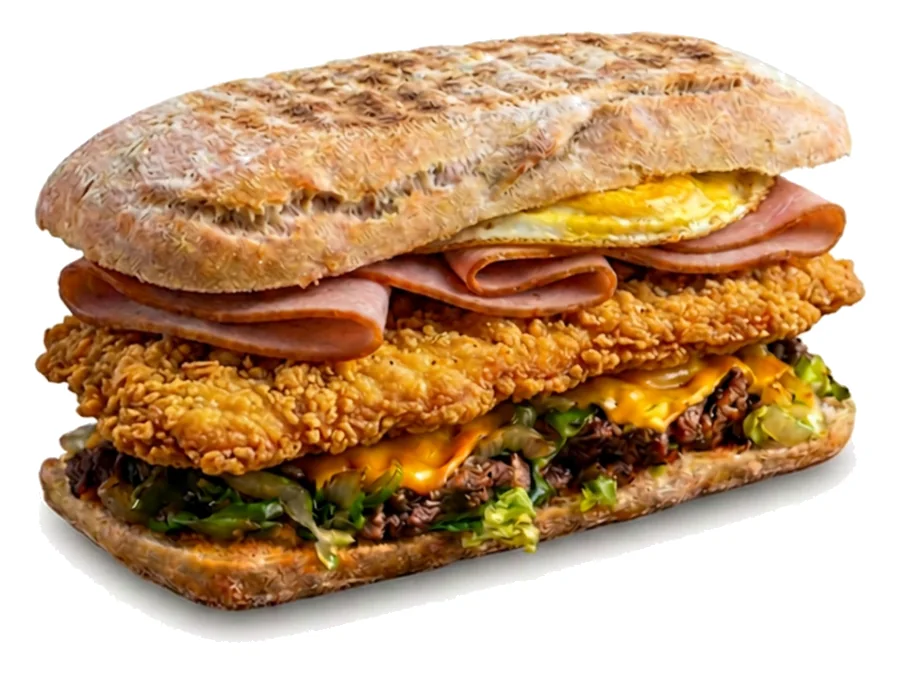
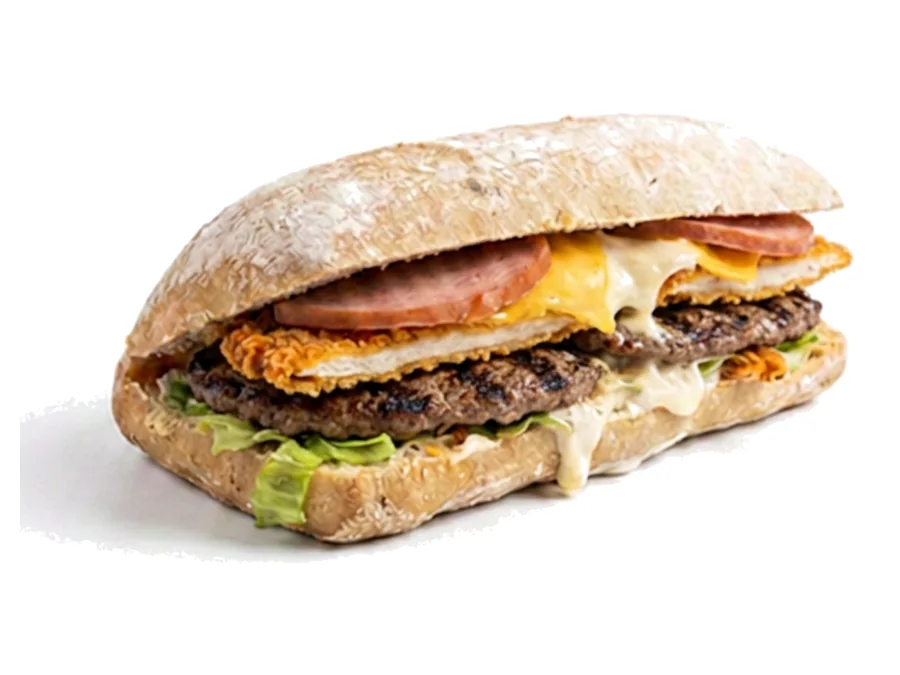
Update Broadway sandwich image and hours

diff --git a/index.html b/index.html
@@ -123,7 +123,6 @@
           </p>
           <div class="hero-actions">
             <a class="button primary" href="#menu">Voir le menu</a>
-            <a class="button ghost" href="#panier">Commander</a>
           </div>
         </div>
       </section>
@@ -211,7 +210,7 @@
           <h3>Horaires</h3>
           <ul>
             <li>Tous les jours</li>
-            <li>12h00 — 23h00</li>
+            <li>12h — 2h</li>
           </ul>
         </div>
       </div>